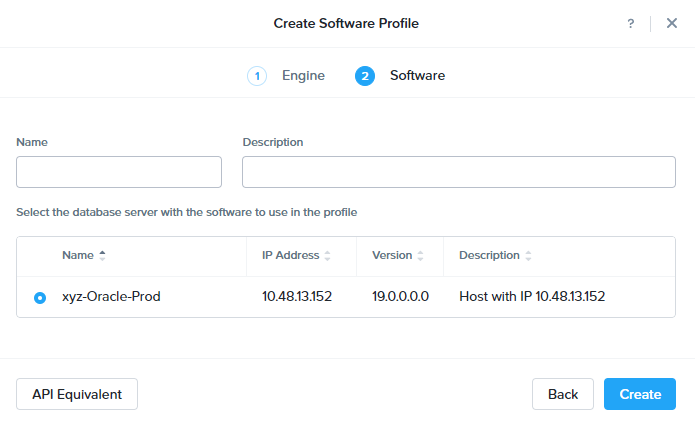
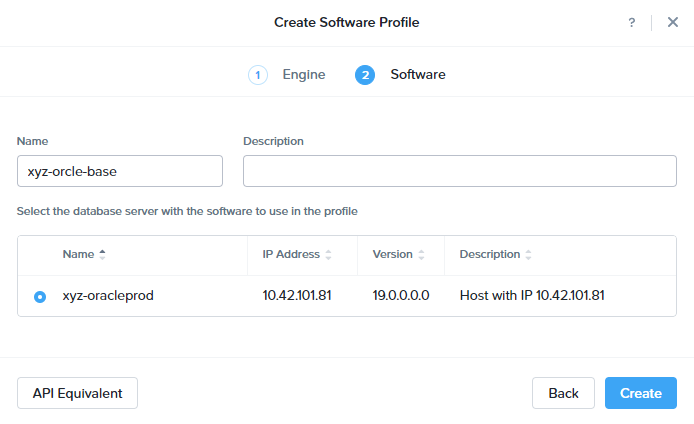
oralce_updates

diff --git a/era_create_oracle_server/era_clone_create_server.rst b/era_create_oracle_server/era_clone_create_server.rst
@@ -1,0 +1,91 @@
+
+.. _era_create_oracle_server:
+=======
+
+------------------------------
+Era: Create Oracle Server
+------------------------------
+
+Overview
+++++++++
+
+.. note::
+
+  Estimated time to complete: **30 MINUTES**
+
+In this lab we will import existing Oracle Server into Era as a base for deployments
+
+Create Oracle Server with Era
++++++++++++++++++++++++++++++++
+
+
+Create a server in ERA as "Production" server
+
+#. Open \https://*ERA-VM-IP:8443*/ in a new browser tab.
+
+#. Select the **Era > Getting Started** drop down menu and click **Databases**.
+
+#. Select **Sources** in the **Databases** pane on the left-hand side of the screen.
+
+#. Click **+ Provision** then **Single Node Database**
+
+#. In the First **Provision a Database** Dialog box, select **Oracle**, and click **Next**.
+
+#. On the Second **Provision a Databaser** screen, input the following and click **Next**:
+
+   -  **Database Server Name** - initials_oracle_prod
+   -  **Description** - (Optional) Description
+   -  **Software Profile** - xyz_oracle_Base
+   -  **Compute Profile** - CUSTOME_EXTRA_SMALL
+   -  **Network Profile** - Orcle_Prod
+   -  **SSH Public Key for Node Access** - use provided ssh public key
+
+     .. figure:: images/create_01.png
+
+#. On the Third **Provision Database** screen, input the following and click **Next**:
+
+   -  **Database Name** - initials_oracle_prod
+   -  **SID** - initialsprd
+   -  **Era Drive user** - oracle
+   -  **SYS and SYSTEM Password** - nutanix/4u
+   -  **Database Parameter Profile** - Oracle_Extra_Small
+   -  **Password** - Nutanix/4u
+
+
+   .. figure:: images/create_02.png
+
+#. On the Third **Provision Database** screen, input the following and click **Provision**:
+
+   -  **Name** - initials_oracle_prod_TM
+   -  **SLA** - DEFAULT_OOB_GOLD_SLA
+
+   .. figure:: images/create_03.png
+
+#. Monitor the registration operation by clicking **initials_oracle_prod**.
+
+   .. note::
+
+   Wait for the provision  operation to successfully complete before moving on
+   This will take 20+ mins.
+
+Create Software Profile
++++++++++++++++++++++++
+
+
+Once the **xyz_ORCL19C** database has been registered with Era, the Time Machine for the database will start creating snapshots and collecting transaction log backups.
+
+#. Open https://*ERA-VM-IP:8443*/ in a new browser tab.
+
+#. Select the **Era > Getting Started** drop down menu and click **Profiles**.
+
+#. Select **Software** in the **Profiles** pane on the left-hand side of the screen.
+
+#. Click **+ Create**.
+
+#. In the **Create Software Profile** Dialog box, select **Oracle** and **Single Instance** then click **Next**.
+
+#. On the **Create Software Profile** screen, select **xyz-Oracle-Prod**  input the following and click **create**:
+    -  **Name** - xyz_oracle_base
+    -  **Description** - (Optional) Description
+
+   .. figure:: images/register_02.png

diff --git a/era_register_oracle_server/era_register_oracle_server.rst b/era_register_oracle_server/era_register_oracle_server.rst
@@ -1,0 +1,73 @@
+
+.. _era_register_oracle_server:
+=======
+
+------------------------------
+Era: Register Oracle Server
+------------------------------
+
+Overview
+++++++++
+
+.. note::
+
+  Estimated time to complete: **30 MINUTES**
+
+In this lab we will import existing Oracle Server into Era as a base for deployments
+
+Register Oracle Server with Era
++++++++++++++++++++++++++++++++
+
+Register the source Oracle Server Database
+..........................................
+
+Before Era can be used to patch Oracle an Oracle server must be registered.
+
+#. Open \https://*ERA-VM-IP:8443*/ in a new browser tab.
+
+#. Select the **Era > Getting Started** drop down menu and click **Database Servers**.
+
+#. Select **List** in the **Database Server** pane on the left-hand side of the screen.
+
+#. Click **+ Register**.
+
+#. In the First **Register Database Server** Dialog box, select **Oracle**, and click **Next**.
+
+#. On the Second **Register Database Server** screen, input the following and click **Next**:
+
+   -  **IP Address or Name of VM** - initials_oracle_base
+   -  **Database Version ** - 19.0.0.0
+   -  **Era Drive user** - oracle
+   -  **Oracle Databse home** - /u02/app/oracle/product/19.0.0/dbhome_1
+   -  **Grid Infrastructure Home** /u01/app/19.0.0/grid
+   -  **Password** - Nutanix/4u
+
+
+   .. figure:: images/registerdb_01.png
+
+#. Monitor the registration operation by clicking **ip_address_of_server**.
+
+   .. note::
+
+   Wait for the registration operation to successfully complete before moving on
+
+Create Software Profile
++++++++++++++++++++++++
+
+Once the **xyz_oracle_base** database has been registered with Era, we need to create a software profile to deploy the enviroment
+
+#. Open https://*ERA-VM-IP:8443*/ in a new browser tab.
+
+#. Select the **Era > Getting Started** drop down menu and click **Profiles**.
+
+#. Select **Software** in the **Profiles** pane on the left-hand side of the screen.
+
+#. Click **+ Create**.
+
+#. In the **Create Software Profile** Dialog box, select **Oracle** and **Single Instance** then click **Next**.
+
+#. On the **Create Software Profile** screen, select **xyz-Oracle-Prod**  input the following and click **create**:
+    -  **Name** - xyz_oracle_base
+    -  **Description** - (Optional) Description
+
+   .. figure:: images/register_02.png

diff --git a/era_patch_oracle_dbs/era_patch_oracle_dbs.rst b/era_patch_oracle_dbs/era_patch_oracle_dbs.rst
@@ -33,15 +33,15 @@ Once the **xyz_ORCL19C** database has been registered with Era, the Time Machine
 
 #. Click **+ Create**.
 
-#. In the **Create Software Profile** Dialog box, select **Oracle**, and click **Next**.
+#. In the **Create Software Profile** Dialog box, select **Oracle** and **Single Instance** then click **Next**.
 
 #. On the **Create Software Profile** screen, select **xyz-Oracle-Prod**  input the following and click **create**:
-    -  **Name** - xyz_ORCL19C
+    -  **Name** - xyz_oracle_base
     -  **Description** - (Optional) Description
 
    .. figure:: images/patchdb_01.png
 
-#. Click xyz_ORCL19C to check the progress
+#. Click xyz_oracle_base to check the progress
 
 # One Software Profile is Created #. Select the **Era > Operations** drop down menu and click **Profiles**.
 

diff --git a/era_create_oracle_vm/era_create_oracle_vm.rst b/era_create_oracle_vm/era_create_oracle_vm.rst
@@ -1,7 +1,7 @@
-.. _era_create_oracle_server:
+.. _era_create_oracle_vm:
 
 --------------------------
-Era: Create Oracle Server
+Era: Create Oracle VM
 --------------------------
 
 Overview
@@ -50,7 +50,7 @@ Now we will use Prism Central to deploy the Oracle Server VM.
 
 #. Fill out the following fields:
 
-   - **Name** - *Initials*-Oracle-PROD
+   - **Name** - *Initials*-Oracle-Base
    - **Description** - (Optional) Description for your VM.
    - **vCPU(s)** - 2
    - **Number of Cores per vCPU** - 1

diff --git a/index.rst b/index.rst
@@ -41,8 +41,9 @@
   :name: _era_oracle_labs
   :hidden:
 
-  era_create_oracle_server/era_create_oracle_server
-  era_register_oracle_dbs/era_register_oracle_dbs
+  era_create_oracle_vm/era_create_oracle_vm
+  era_register_oracle_server/era_register_oracle_server
+  era_clone_oracle_dbs/era_clone_oracle_server
   era_patch_oracle_dbs/era_patch_oracle_dbs
 
 .. toctree::
